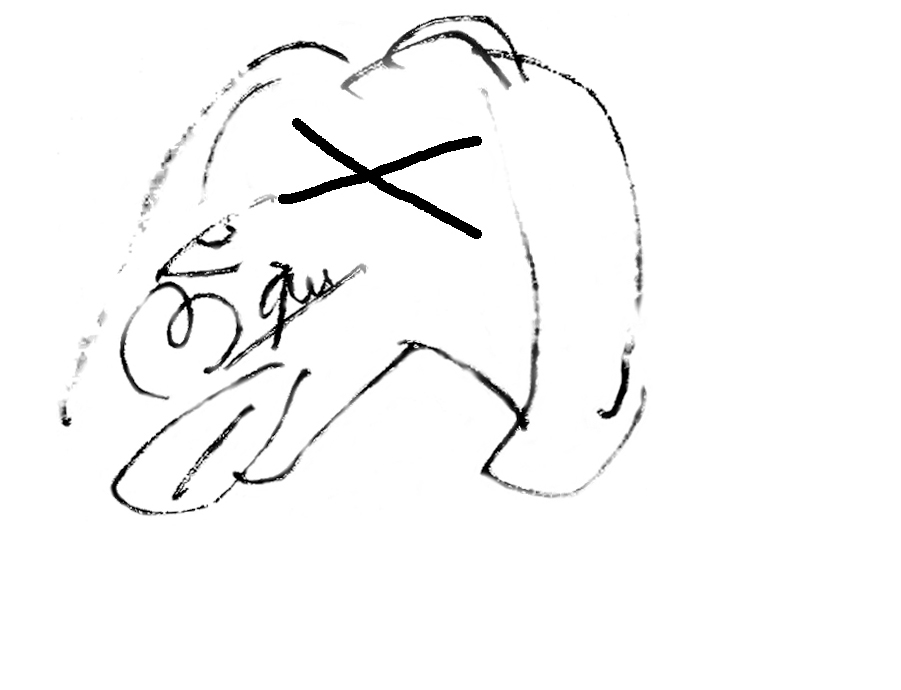
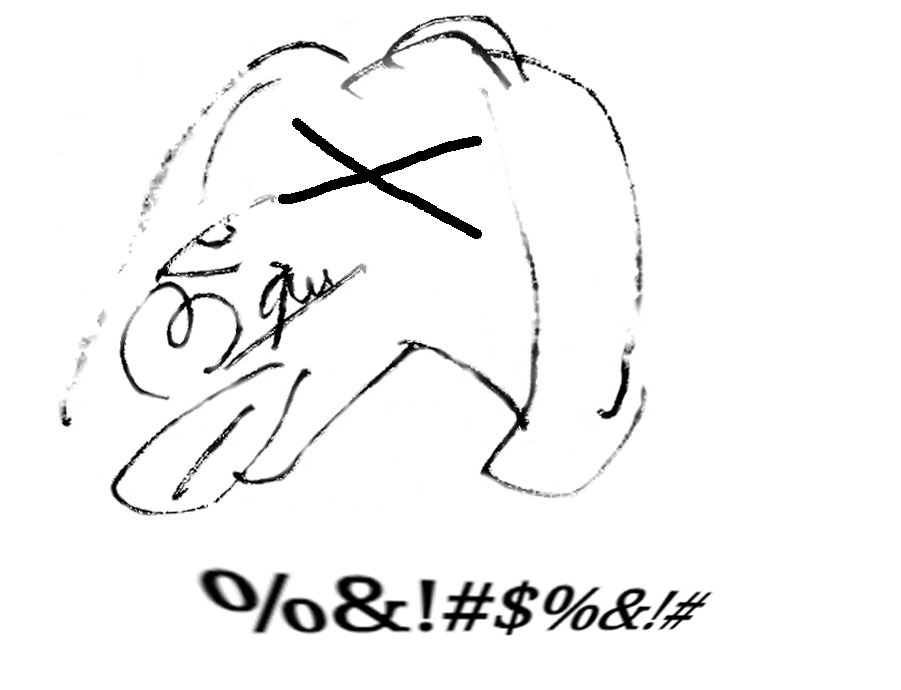
修正

Changed region(s): [[0.2175, 0.8217, 0.808, 0.9435]]

diff --git a/src/Header.js b/src/Header.js
@@ -27,8 +27,8 @@ const useStyles = makeStyles((theme) => ({
   menuButton: {
     marginRight: theme.spacing(2),
     backgroundColor: '#1a2930',
-    width: '100px',
-    height: '75px',
+    width: '85px',
+    height: '60px',
     fontSize: '15px',
     color: '#FFF',
     transform:　'rotate(-15deg)',
@@ -39,8 +39,8 @@ const useStyles = makeStyles((theme) => ({
     flexGrow: 1,
   },
   mtitle: {
-    width: '200px',
-    margin: '24px'
+    width: '218px',
+    margin: '24px 16px',
   },
   list: {
     width: 250,

diff --git a/src/MyAccount.js b/src/MyAccount.js
@@ -7,7 +7,7 @@ export default function MyAccount() {
   console.log(user);
   return (
     <div className="MyAccount">
-      <h1>My Account</h1>
+      <h1>My Account %&!#$%&!#</h1>
       <div>
         Email: <br />
         {user.email}<br /><br />
